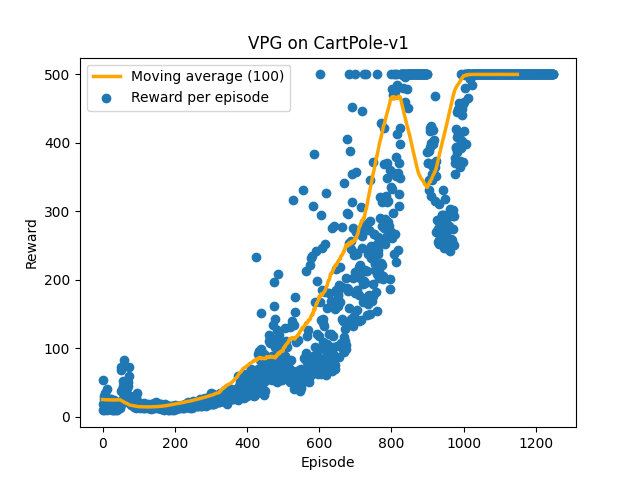
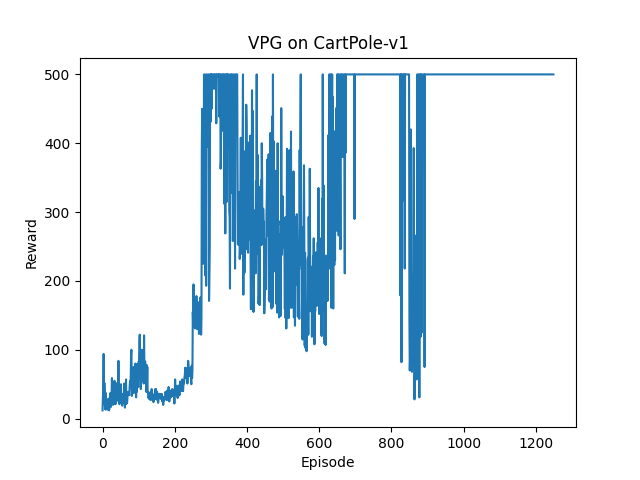
Re-run VPG using the new plot format

diff --git a/vpg.py b/vpg.py
@@ -177,7 +177,7 @@ if __name__ == "__main__":
         verbose=args.verbose,
     )
 
-    plot_rewards(rewards, ma_window=100, title="VPG on CartPole-v1", output_dir="vpg", filename="CartPole-v1")
+    plot_rewards(rewards, title="VPG on CartPole-v1", output_dir="vpg", filename="CartPole-v1")
 
     print("Evaluating agent")
     evaluate(env, agent, args.eval_episodes, args.verbose)
